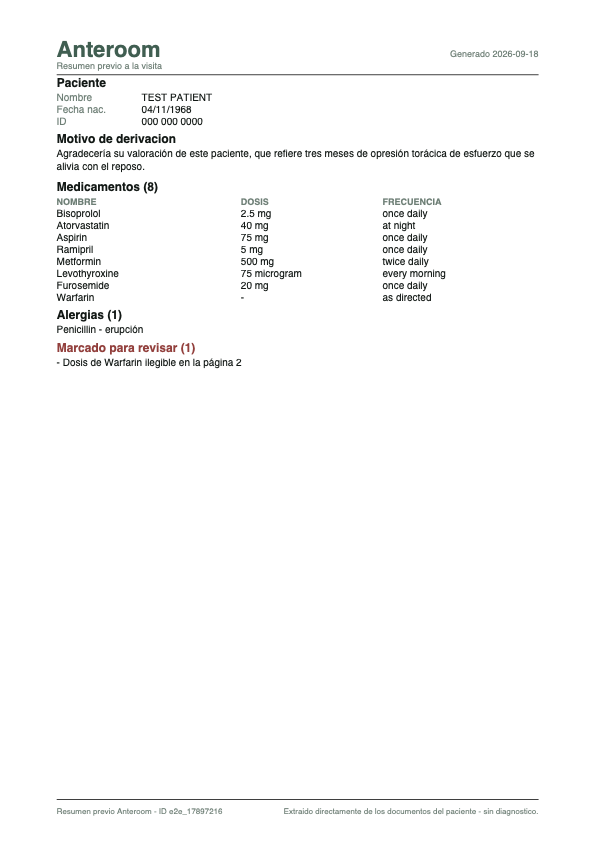
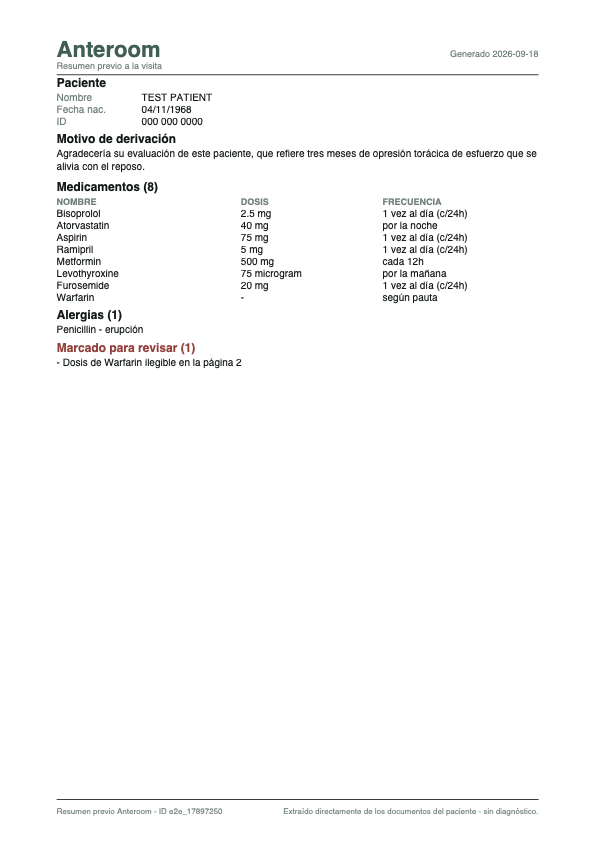
Localise dosing frequency by lookup, never by model
"Bisoprolol 2.5 mg once daily" in a Spanish brief reads as untranslated, not
as precision. But frequency is a dosing instruction, so the model gets no say
in it: one "twice" -> "tres veces" slip is a dosing error with the app's name
on it.

`localize_frequency` is a fixed table. Whole-string exact matches only, no
partial substitution, and anything unrecognised comes back **unchanged** --
"2 tablets twice daily" and "every other day" pass through untouched, because
an English frequency in a Spanish brief is a cosmetic miss while a
confidently wrong one is a clinical incident. It runs whether or not the
model returned anything usable, so even a failed translation yields a
readable Spanish frequency column.

Covers the six requested mappings plus their standard abbreviations (od/bid/
bd/tid/tds/q8h/nocte/mane and the qXh forms), and four-times-daily, which is
the unambiguous next term in the same series -- leaving it out would localise
three of the four common dosing schedules.

Drug names and numeric doses remain copied verbatim from the extracted
content; merge_translation's safety boundary is unchanged. The live Spanish
export now reads:

    Bisoprolol     2.5 mg          1 vez al día (c/24h)
    Atorvastatin   40 mg           por la noche
    Metformin      500 mg          cada 12h
    Levothyroxine  75 microgram    por la mañana
    Warfarin       -               según pauta

56 offline checks (up from 25) and 43 live (up from 38), including that an
[…]

Changed region(s): [[0.2118, 0.1544, 0.9076, 0.1853], [0.6353, 0.247, 0.7866, 0.3705], [0.484, 0.9572, 0.5143, 0.9881]]

diff --git a/functions/anteroom/vertex.py b/functions/anteroom/vertex.py
@@ -18,6 +18,7 @@ from __future__ import annotations
 
 import json
 import logging
+import re
 from typing import Any
 
 from google import genai
@@ -245,12 +246,66 @@ def translate_content(content: dict, target: str) -> dict:
             response_schema=BRIEF_CONTENT_SCHEMA,
         ),
     )
-    return merge_translation(content, _parse(response))
+    return merge_translation(content, _parse(response), target)
 
 
 # ---------------------------------------------------------------------------
 # Shaping
 # ---------------------------------------------------------------------------
+# ---------------------------------------------------------------------------
+# Frequency localisation
+# ---------------------------------------------------------------------------
+# Dosing frequency is the one part of a medication row a Spanish clinician
+# genuinely needs in Spanish -- "once daily" on a Spanish prescription summary
+# reads as untranslated, not as precision. But it is also a dosing
+# instruction, so a model must never be the thing that rewrites it: a single
+# "twice" -> "tres veces" slip is a dosing error with the app's name on it.
+#
+# So this is a lookup, not a translation. Whole-string exact matches only, no
+# partial substitution, and anything unrecognised is returned **unchanged**.
+# An English frequency surviving into a Spanish brief is a cosmetic miss; a
+# confidently wrong one is a clinical incident.
+#
+# Drug names (INN) and numeric doses are never touched by anything here.
+_FREQUENCY_TABLES: dict[str, tuple[tuple[str, str], ...]] = {
+    "es": (
+        (r"once daily|once a day|one daily|daily|od|o\.d\.|q24h|every 24 ?h(?:ours|rs|r)?",
+         "1 vez al día (c/24h)"),
+        (r"twice daily|twice a day|bid|b\.i\.d\.|bd|q12h|every 12 ?h(?:ours|rs|r)?",
+         "cada 12h"),
+        (r"three times daily|three times a day|tid|t\.i\.d\.|tds|q8h|every 8 ?h(?:ours|rs|r)?",
+         "cada 8h"),
+        # Not in the original list but the unambiguous next term in the same
+        # series; leaving it out would localise three of four dosing schedules.
+        (r"four times daily|four times a day|qid|q\.i\.d\.|qds|q6h|every 6 ?h(?:ours|rs|r)?",
+         "cada 6h"),
+        (r"at night|nocte|at bedtime|before bed|nightly|every night", "por la noche"),
+        (r"every morning|each morning|in the morning|mane", "por la mañana"),
+        (r"as directed|as per instructions", "según pauta"),
+    ),
+}
+
+
+def localize_frequency(value: Any, target: str) -> Any:
+    """Map a dosing frequency into `target`, or return it untouched.
+
+    Deliberately conservative: the whole string must match one entry. A value
+    like "2 tablets twice daily" is left alone rather than part-translated,
+    because rewriting half a dosing instruction is worse than leaving all of
+    it in English.
+    """
+    table = _FREQUENCY_TABLES.get(target)
+    if not table or not isinstance(value, str) or not value.strip():
+        return value
+
+    # Normalise only for matching; the original is what gets returned on a miss.
+    key = re.sub(r"\s+", " ", value.strip().lower()).strip(" .")
+    for pattern, replacement in table:
+        if re.fullmatch(pattern, key):
+            return replacement
+    return value
+
+
 def _clean(value: Any) -> str | None:
     return value.strip() if isinstance(value, str) and value.strip() else None
 
@@ -314,15 +369,25 @@ def sanitize_content(raw: Any) -> dict:
     return out
 
 
-def merge_translation(source: dict, translated: Any) -> dict:
+def merge_translation(source: dict, translated: Any, target: str = "") -> dict:
     """Take translated prose from the model, everything clinical from source.
 
     This is not defensive tidying, it is the safety boundary. A translation
     pass must not be able to alter a drug name, a dose, a patient's name or an
     ID -- so those are copied from the already-extracted content and the model's
     version of them is discarded, whatever it said.
+
+    Frequency is the one exception, and even there the model gets no say: it
+    goes through `localize_frequency`, a fixed lookup table.
     """
     out = sanitize_content(source)
+
+    # Applied whether or not the model returned anything usable, so a failed
+    # translation still yields a readable Spanish frequency column.
+    for med in out["medications"]:
+        if "frequency" in med:
+            med["frequency"] = localize_frequency(med["frequency"], target)
+
     if not isinstance(translated, dict):
         return out
 

diff --git a/functions/tests/test_pipeline.py b/functions/tests/test_pipeline.py
@@ -73,6 +73,41 @@ check("translation DOES render reaction", m["allergies"][0]["reaction"] == "erup
 check("translation DOES render flags", m["flagged_items"][0].startswith("Dosis"))
 check("translation DOES render referral_reason", m["referral_reason"].startswith("Opresion"))
 
+# --- frequency localisation: a lookup, never the model ---
+from anteroom.vertex import localize_frequency as L
+
+for src, want in [
+    ("once daily", "1 vez al día (c/24h)"), ("Once Daily", "1 vez al día (c/24h)"),
+    ("daily", "1 vez al día (c/24h)"), ("OD", "1 vez al día (c/24h)"),
+    ("q24h", "1 vez al día (c/24h)"), ("every 24 hours", "1 vez al día (c/24h)"),
+    ("twice daily", "cada 12h"), ("bid", "cada 12h"), ("BD", "cada 12h"),
+    ("three times daily", "cada 8h"), ("TDS", "cada 8h"), ("q8h", "cada 8h"),
+    ("four times daily", "cada 6h"), ("qds", "cada 6h"),
+    ("at night", "por la noche"), ("nocte", "por la noche"),
+    ("every morning", "por la mañana"), ("mane", "por la mañana"),
+    ("as directed", "según pauta"),
+]:
+    check(f"frequency {src!r} -> Spanish", L(src, "es") == want, repr(L(src, "es")))
+
+# Unrecognised input must survive untouched. An English frequency in a Spanish
+# brief is a cosmetic miss; a confidently wrong one is a clinical incident.
+for src in ("2 tablets twice daily", "every other day", "on alternate days", "PRN", ""):
+    check(f"frequency {src!r} passes through", L(src, "es") == src, repr(L(src, "es")))
+
+check("frequency untouched for English target", L("once daily", "en") == "once daily")
+check("frequency untouched for unknown target", L("once daily", "de") == "once daily")
+
+# And it must reach the merged output without disturbing name or dose.
+es = vertex.merge_translation(source, hostile, "es")
+check("merged: drug name still untranslated", es["medications"][0]["name"] == "Bisoprolol")
+check("merged: dose still verbatim", es["medications"][0]["dose"] == "2.5 mg")
+check("merged: frequency localised", es["medications"][0]["frequency"] == "1 vez al día (c/24h)",
+      es["medications"][0]["frequency"])
+
+en = vertex.merge_translation(source, hostile, "en")
+check("merged: English target leaves frequency alone",
+      en["medications"][0]["frequency"] == "once daily", en["medications"][0]["frequency"])
+
 # --- PDF ---
 free = render_brief_pdf(source, generated_at="2026-09-18", watermarked=True, brief_id="abc123", language="en")
 pro  = render_brief_pdf(source, generated_at="2026-09-18", watermarked=False, brief_id="abc123", language="en")

diff --git a/tools/verify_pipeline.py b/tools/verify_pipeline.py
@@ -253,6 +253,21 @@ def main() -> int:
         check("translation preserved drug names", "bisoprolol" in tr_names, ", ".join(sorted(tr_names)))
         tr_bis = next((m for m in tr_meds if m.get("name", "").lower() == "bisoprolol"), {})
         check("translation preserved the dose", tr_bis.get("dose") == "2.5 mg", str(tr_bis.get("dose")))
+        # Frequency is localised by a lookup table, not the model -- see
+        # localize_frequency. Drug name and dose above must be untouched.
+        tr_freqs = {m.get("name", "").lower(): m.get("frequency") for m in tr_meds}
+        check("frequency localised to Spanish",
+              tr_freqs.get("bisoprolol") == "1 vez al día (c/24h)", str(tr_freqs.get("bisoprolol")))
+        check("twice-daily localised", tr_freqs.get("metformin") == "cada 12h",
+              str(tr_freqs.get("metformin")))
+        check("at-night localised", tr_freqs.get("atorvastatin") == "por la noche",
+              str(tr_freqs.get("atorvastatin")))
+        check("as-directed localised", tr_freqs.get("warfarin") in ("según pauta", None),
+              str(tr_freqs.get("warfarin")))
+        check("English source frequency untouched in source content",
+              next((m.get("frequency") for m in meds if m.get("name","").lower()=="bisoprolol"), None)
+              == "once daily")
+
         check("translation rendered the flags into Spanish",
               bool(tr.get("flagged_items")) and tr.get("flagged_items") != flags,
               " | ".join(tr.get("flagged_items") or [])[:160])
